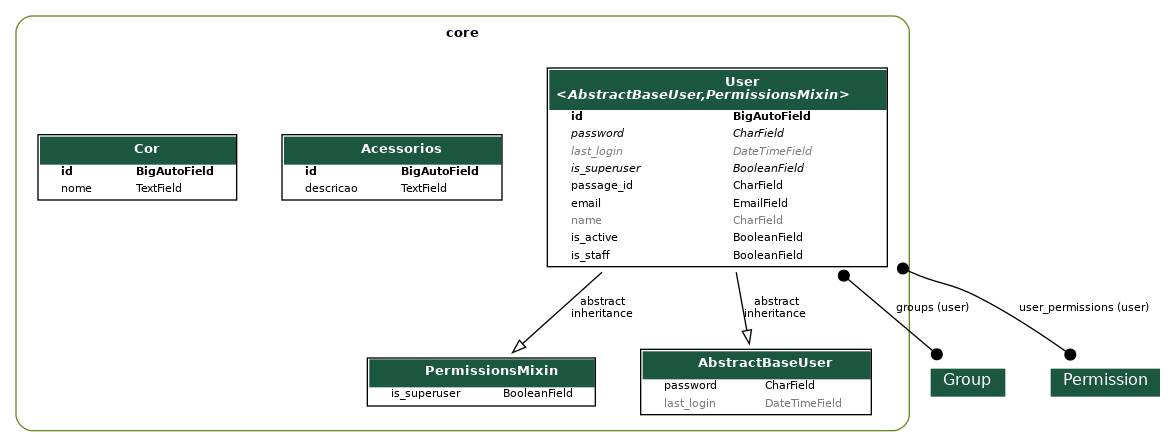
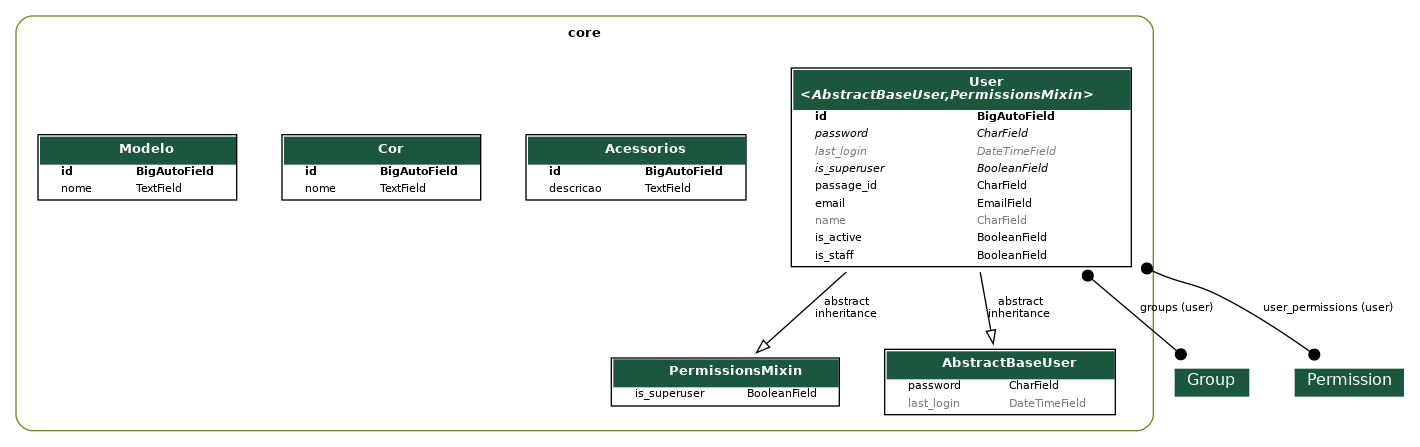
feat: Adiciona limite de caracteres aos campos de texto nos modelos Acessorios, Cor e Modelo #1

diff --git a/core/migrations/0007_modelo.py b/core/migrations/0007_modelo.py
@@ -1,0 +1,20 @@
+# Generated by Django 5.1.7 on 2025-04-29 18:55
+
+from django.db import migrations, models
+
+
+class Migration(migrations.Migration):
+
+    dependencies = [
+        ('core', '0006_cor'),
+    ]
+
+    operations = [
+        migrations.CreateModel(
+            name='Modelo',
+            fields=[
+                ('id', models.BigAutoField(auto_created=True, primary_key=True, serialize=False, verbose_name='ID')),
+                ('nome', models.TextField()),
+            ],
+        ),
+    ]

diff --git a/core/models/modelo.py b/core/models/modelo.py
@@ -1,9 +1,9 @@
 from django.db import models
 
 class Modelo(models.Model):
-    nome = models.TextField()
-    marca = models.TextField().null
-    categorias = models.TextField().null
+    nome = models.TextField(80)
+    marca = models.TextField(80).null
+    categorias = models.TextField(80).null
 
     def __str__(self):
-        return f"{self.id} - {self.nome} - {self.marca}"
+        return f"{self.id} - {self.nome.upper()} - {self.marca.upper()}"

diff --git a/core/models/acessorios.py b/core/models/acessorios.py
@@ -1,7 +1,7 @@
 from django.db import models
 
 class Acessorios(models.Model):
-    descricao = models.TextField()
+    descricao = models.TextField(100)
 
     def __str__(self):
         return f"{self.id} - {self.descricao}"

diff --git a/core/models/cor.py b/core/models/cor.py
@@ -1,7 +1,7 @@
 from django.db import models
 
 class Cor(models.Model):
-    nome = models.TextField()
+    nome = models.TextField(40)
 
     def __str__(self):
         return f"{self.id} - {self.nome}"
